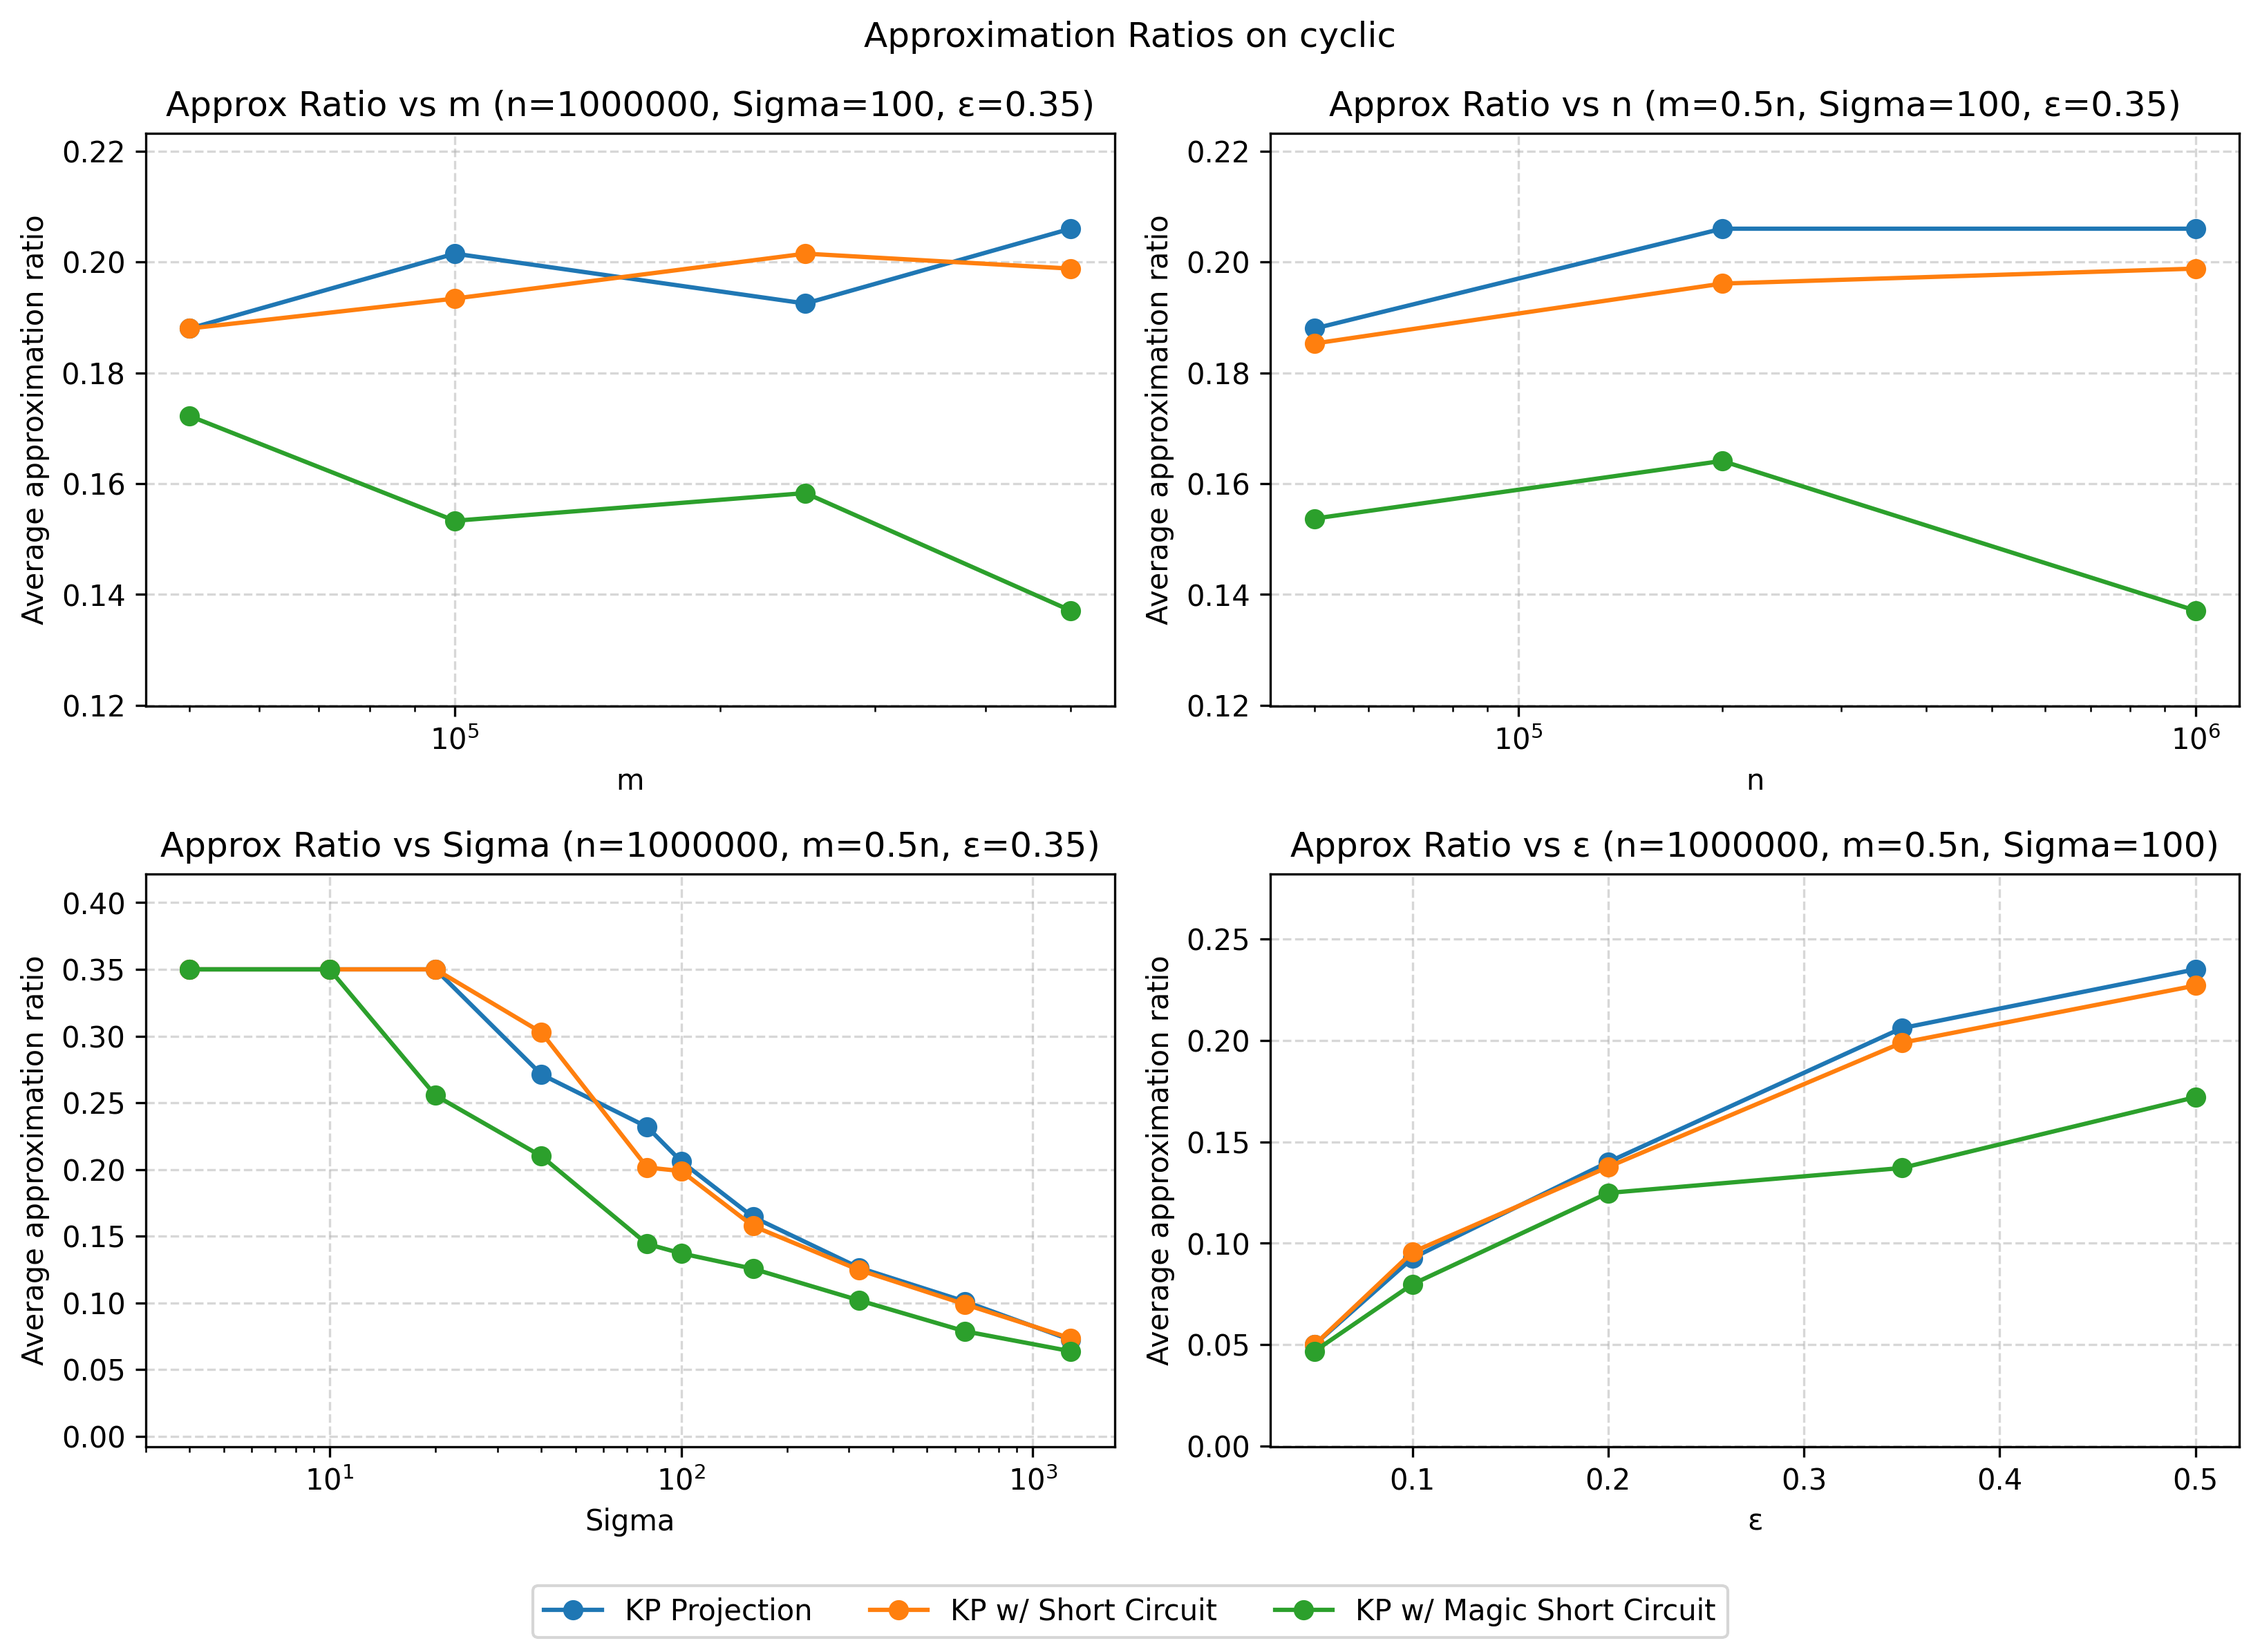
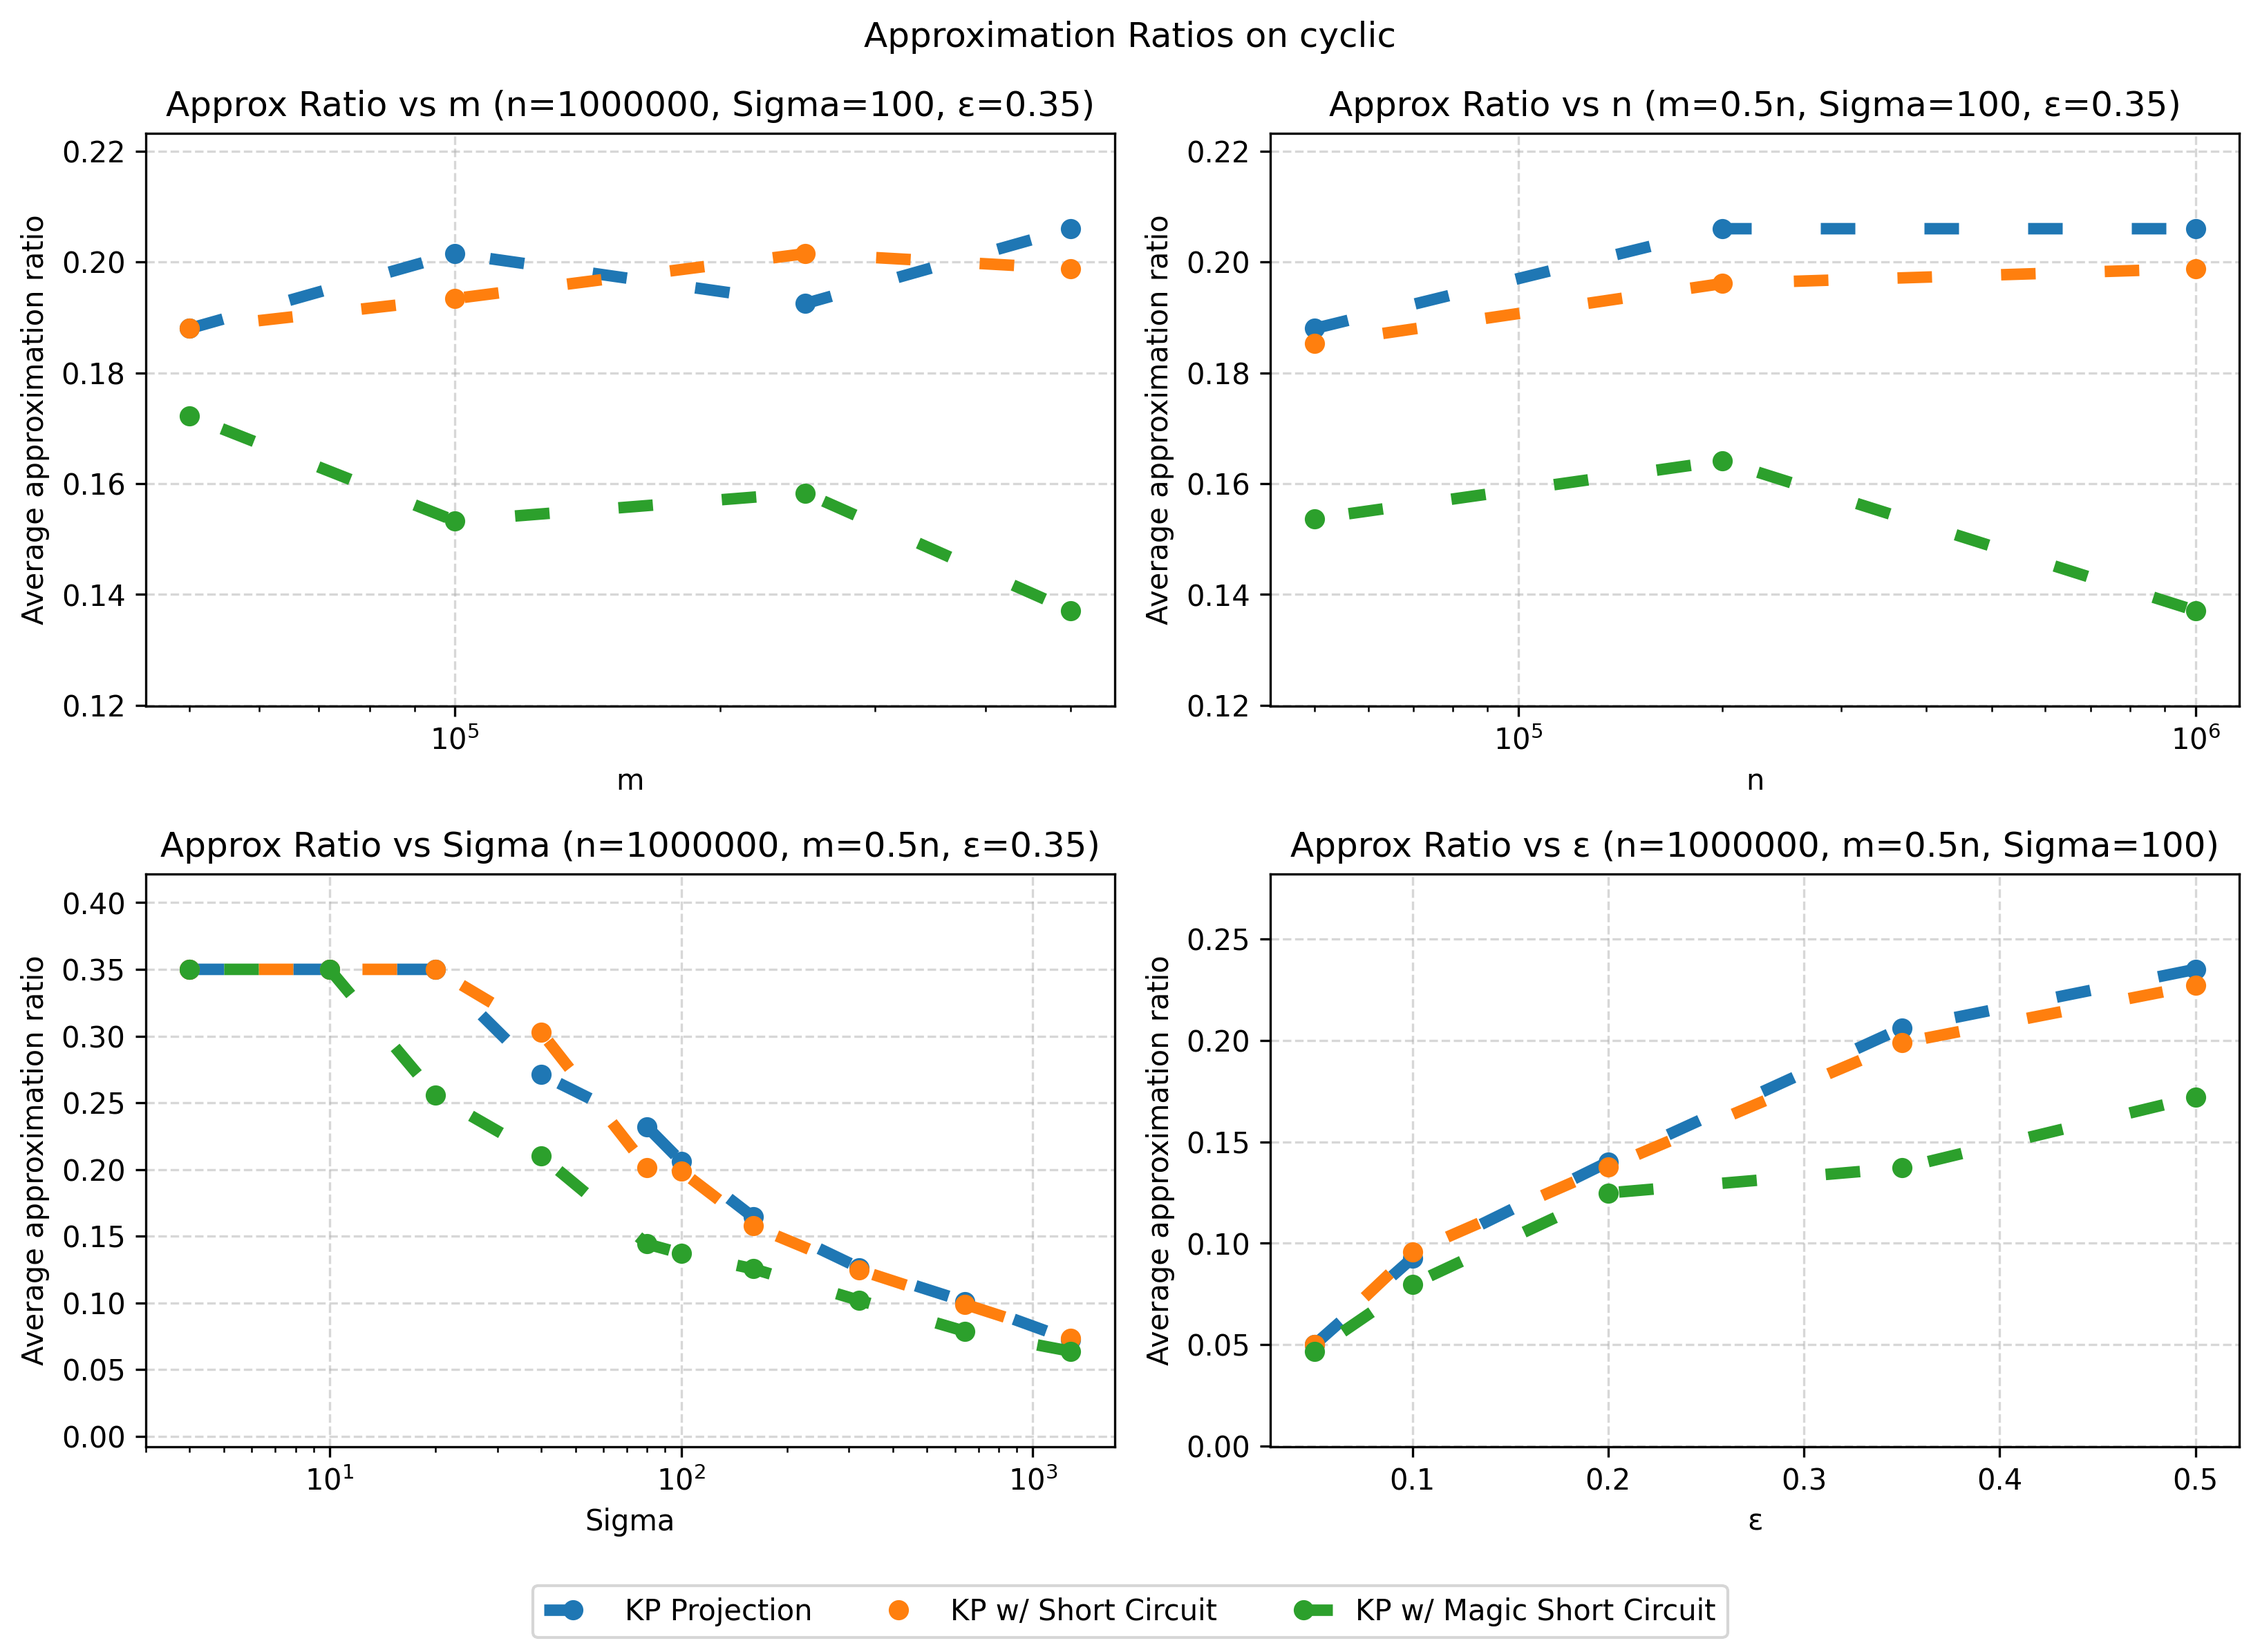
Gen non-overlapping graphs

diff --git a/src/plotting_new.py b/src/plotting_new.py
@@ -5,7 +5,7 @@ import matplotlib.pyplot as plt
 # -------------------------------------------------
 # Load data and define short algorithm names
 # -------------------------------------------------
-GEN_NAME = "k_difs"
+GEN_NAME = "cyclic"
 df = pd.read_csv("../results/" + GEN_NAME + ".csv").copy()
 
 name_map = {
@@ -50,7 +50,14 @@ def plot_group_on_ax(ax, data, algos, x_col, metric,
         # print(cur)
         if cur.empty:
             continue
-        ax.plot(cur[x_col], cur[metric], marker="o", label=algo, linestyle=(i % 3 * 3, (3, 6)))
+        ax.plot(
+            cur[x_col],
+            cur[metric],
+            marker="o",
+            label=algo,
+            linestyle=(i % 3 * 3, (3, 6)),
+            linewidth=4,
+        )
 
     if log_x:
         ax.set_xscale("log")
